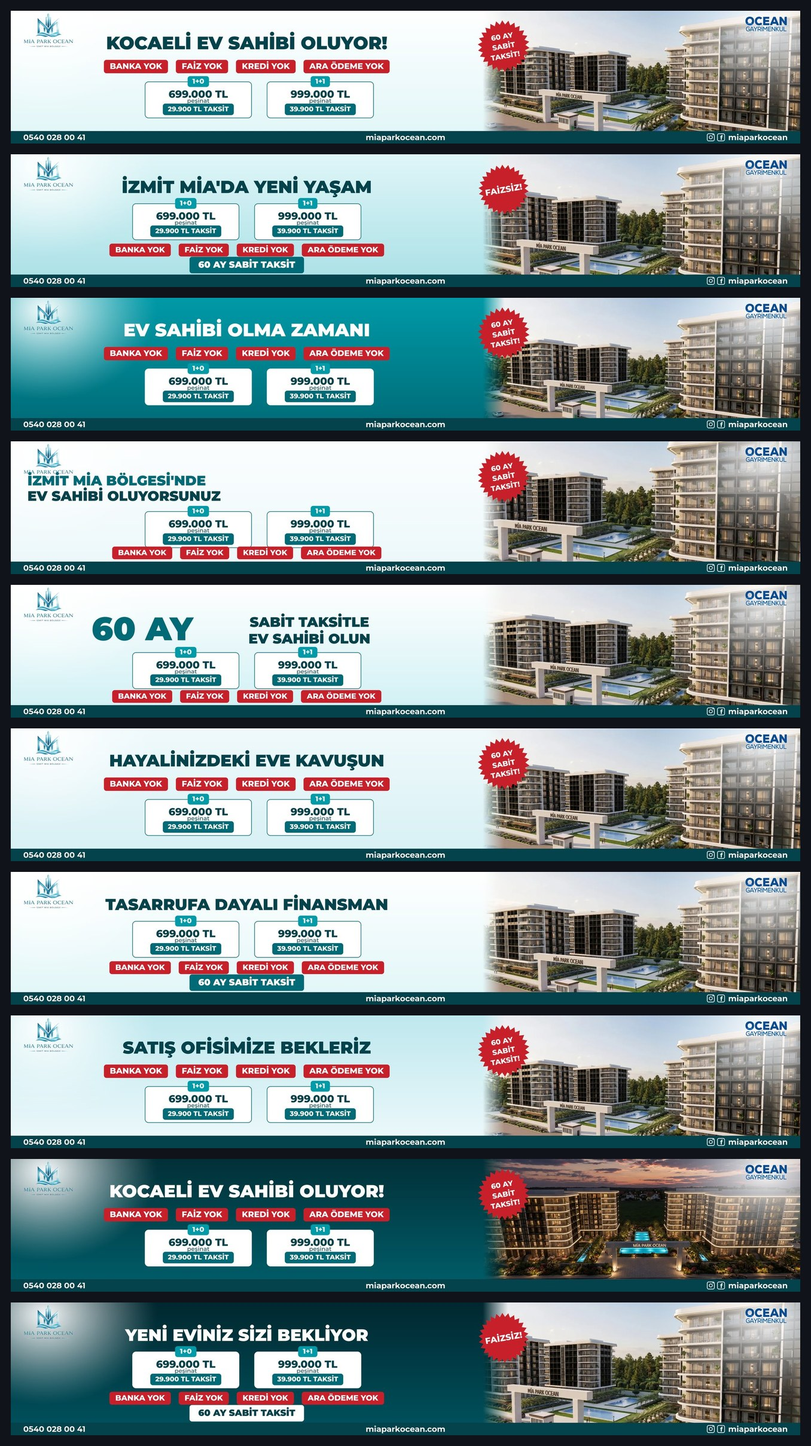
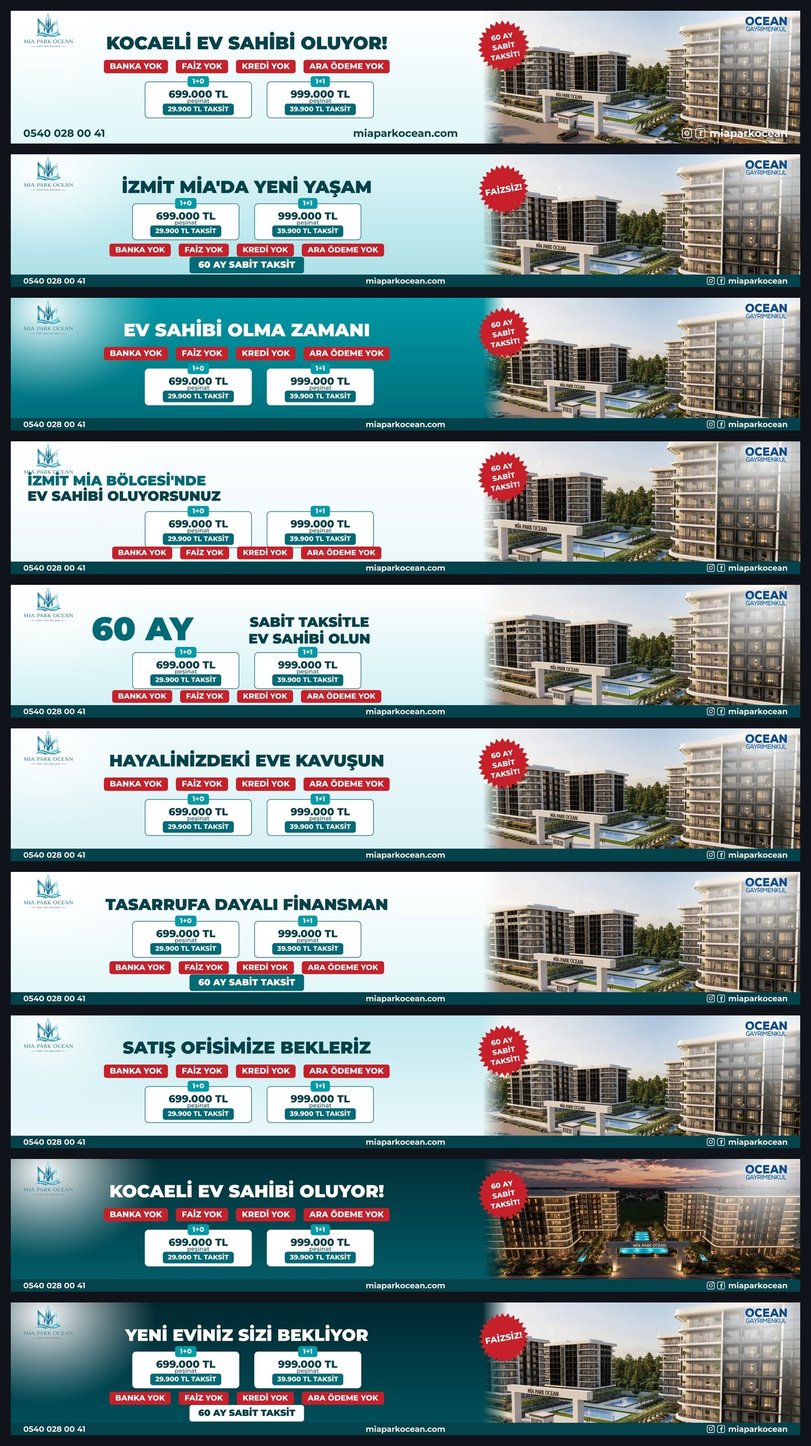
Turkuaz-01: alt bant kaldırıldı, iletişim satırı büyütülüp yukarı alındı
- 01'de petrol alt bant yok; telefon (solda, petrol), site (ortada,
  petrol), IG+FB ikonları ve miaparkocean (sağda, foto üzerinde beyaz)
  bantsız, 250 punto ve daha yukarıda

Claude-Session: https://claude.ai/code/session_014vbWeo5uAXPs6zFw9SmWv2

Changed region(s): [[0.0, 0.062, 0.9912, 0.1241]]

diff --git a/scripts/build-bilbord-16m-turkuaz.py b/scripts/build-bilbord-16m-turkuaz.py
@@ -236,7 +236,29 @@ def t01():
     dr = ImageDraw.Draw(im)
     govde_a(im, dr, x0 / 2, "KOCAELİ EV SAHİBİ OLUYOR!", 430)
     yildiz(im, x0 + 500, 850, 620, ["60 AY", "SABİT", "TAKSİT!"], don=10)
-    alt_bar(im)
+    # Alt bant yok: iletişim satırı bantsız, büyük ve biraz yukarıda.
+    dr = ImageDraw.Draw(im)
+    f = mont("Bold", 250)
+    cy = H - 250
+    dr.text((PAD, cy), TEL, font=f, fill=PETROL, anchor="lm")
+    dr.text((W / 2, cy), SITE, font=f, fill=PETROL, anchor="mm")
+    t = "miaparkocean"
+    tw = dr.textlength(t, font=f)
+    tx = W - PAD - tw
+    dr.text((tx, cy), t, font=f, fill=BEYAZ, anchor="lm")
+    ik, kal = 240, 19
+    fx = tx - 100 - ik
+    ix = fx - 80 - ik
+    dr.rounded_rectangle([ix, cy - ik / 2, ix + ik, cy + ik / 2], radius=55,
+                         outline=BEYAZ, width=kal)
+    dr.ellipse([ix + ik * 0.26, cy - ik * 0.24, ix + ik * 0.74, cy + ik * 0.24],
+               outline=BEYAZ, width=kal)
+    dr.ellipse([ix + ik * 0.72, cy - ik * 0.40, ix + ik * 0.86, cy - ik * 0.26],
+               fill=BEYAZ)
+    dr.rounded_rectangle([fx, cy - ik / 2, fx + ik, cy + ik / 2], radius=55,
+                         outline=BEYAZ, width=kal)
+    dr.text((fx + ik * 0.55, cy + 8), "f", font=mont("Bold", 196), fill=BEYAZ,
+            anchor="mm")
     kaydet("turkuaz-01-kocaeli", im)
 
 
